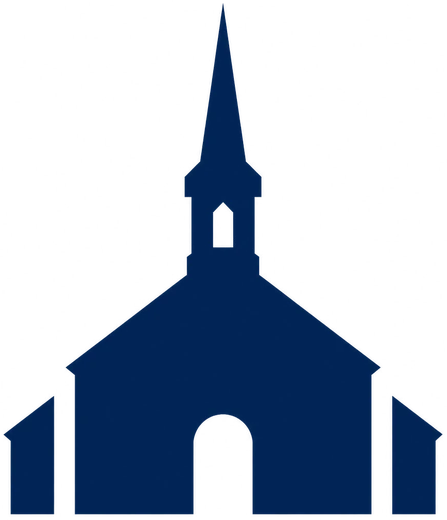
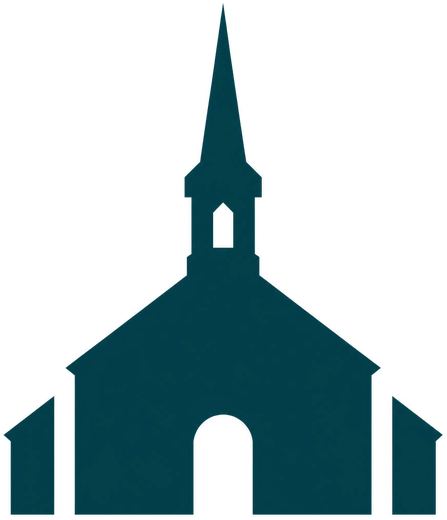
Teal seal and chapel, bold date/venue, Safari descender fix
- Wax seal and chapel icon re-cut from the corrected teal artwork
  (seal masked by colour so the paper shadow stays out of the cutout)
- Date and Location: drop the "Data"/"Local" labels, date and venue
  name in bold, address unchanged
- Script titles inside .reveal layers get bottom room (offset by a
  negative margin) so Safari stops clipping descenders like the "z"
  in "Cozinha" and the "g/j/ç" in the countdown title

diff --git a/css/styles.css b/css/styles.css
@@ -423,6 +423,10 @@ html {
   font-size: clamp(1.55rem, 6.6vw, 2.2rem);
   color: var(--ink);
   white-space: nowrap;
+  /* Safari corta as pernas de "g", "j" e "ç" em camada animada (.reveal):
+     folga embaixo, compensada pela margem negativa */
+  padding-bottom: 0.45em;
+  margin-bottom: -0.45em;
 }
 
 .countdown__clock {
@@ -544,6 +548,8 @@ html {
 .dateloc { gap: 1.4rem; }
 .dateloc__title { margin-bottom: 0.6rem; }
 .info-block { display: flex; flex-direction: column; gap: 0.35rem; }
+/* data e nome do local em negrito (sem os rótulos "Data"/"Local") */
+.dateloc .info-lead { font-weight: 700; }
 .dateloc__photo {
   width: min(84%, 300px);
   height: auto;

diff --git a/css/presentes.css b/css/presentes.css
@@ -34,10 +34,13 @@
   width: 100%;
 }
 /* folga p/ os floreios da fonte script: o título tem .reveal (camada própria),
-   e o Safari corta o que passa da caixa — sem padding, o "C" de "Cozinha" some */
+   e o Safari corta o que passa da caixa — sem padding, o "C" de "Cozinha" some
+   e a perna do "z" (e do "p" de "Só para rir") é cortada embaixo.
+   A folga de baixo é compensada pela margem negativa: o espaçamento não muda. */
 .gift-group__title {
   font-size: clamp(2rem, 9vw, 2.6rem);
-  padding: 0.2em 0.4em 0.1em;
+  padding: 0.2em 0.4em 0.5em;
+  margin-bottom: -0.4em;
 }
 .gift-list {
   display: flex;

diff --git a/index.html b/index.html
@@ -201,11 +201,9 @@
       <h2 class="script-title dateloc__title">Data e Local</h2>
 
       <div class="info-block">
-        <p class="eyebrow">Data</p>
         <p class="info-lead">27 de março de 2027</p>
       </div>
       <div class="info-block">
-        <p class="eyebrow">Local</p>
         <p class="info-lead">Capela da Igreja de Jesus Cristo dos Santos dos Últimos&nbsp;Dias</p>
         <p class="info-body">Rua Humberto Venturini, 620 – Vila&nbsp;Sônia<br />Piracicaba – SP</p>
       </div>
